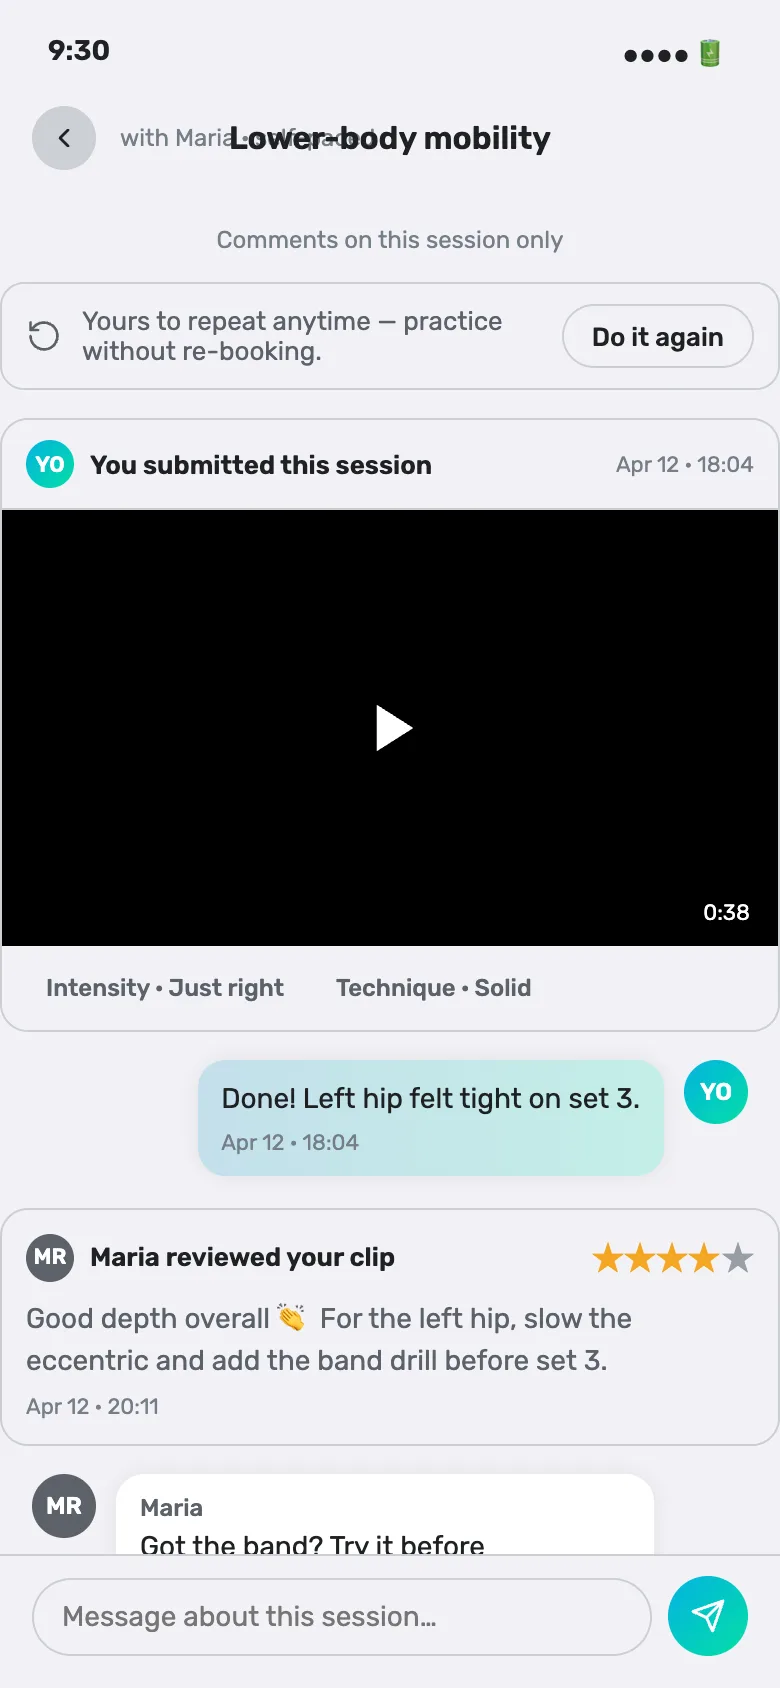
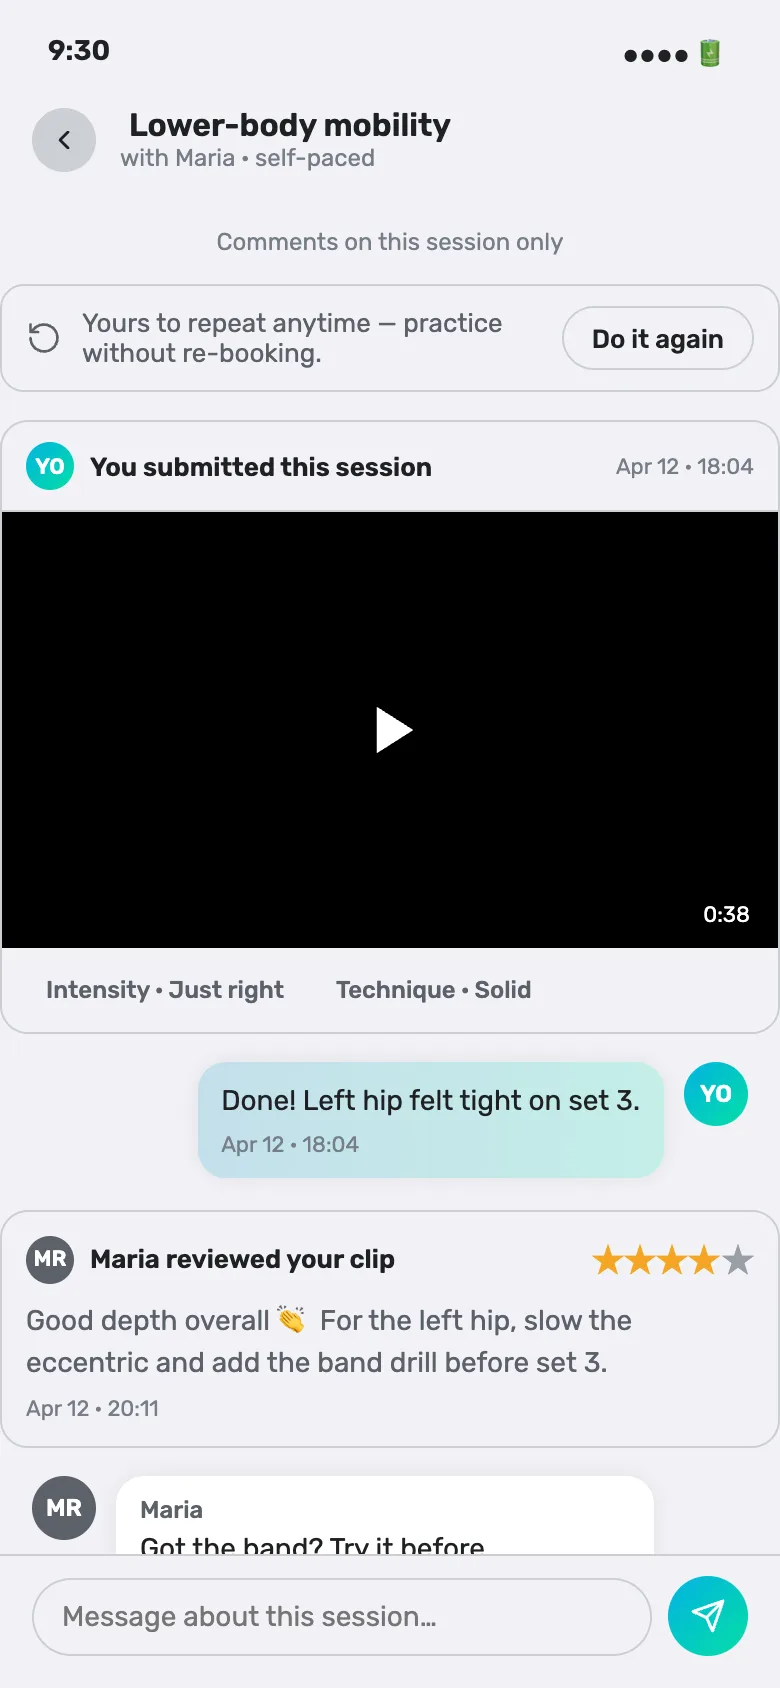
Self-paced: the thread is the assignment's home, and the module stops being an island
The template detail dropped the coach straight into the builder or the review —
action first, which is exactly what we moved away from when templates got "look
before you edit". Those rows now open the assignment's thread, and the thread
carries the action: "Needs a plan → Build it", "Needs review → Review", "With the
athlete → nothing to do". Deep-linkable as ?as=coach&st=requested#s-comments so
the walk actually works in the prototype.

That meant making one thread readable by two people. The coach sees the athlete's
name in the header and no "do it again" affordance, which is the athlete's alone.
And in "needs a plan" nothing has happened yet, so the submission, the review and
the conversation are all absent — the screen is the action row and a line saying
what is being waited on. Showing a clip and a four-star review on a session the
coach has not built yet was the kind of lie a prototype should never tell.

The island: self-paced.html had six modules linking in and not one link out —
the only file of 38 like that. It now leads back to the template, the client card
and the athlete's coach card.

Also fixed the header collision while in there: .fit-header-title is absolutely
positioned, so a second line under it lands on top of the title.

diff --git a/prototypes/flows/shared/self-paced.html b/prototypes/flows/shared/self-paced.html
@@ -202,6 +202,41 @@
   .sp-cmt-name { font-size: 12px; font-weight: 500; color: var(--fit-text-secondary); margin-bottom: 3px; }
   .sp-cmt-text { font-size: 14px; line-height: 1.45; color: var(--fit-text-primary); }
   .sp-cmt-time { font-size: 11px; color: var(--fit-text-tertiary); margin-top: 4px; }
+  /* Thread = the assignment's home. The coach lands here first and acts from
+     here, instead of being dropped straight into the builder or the review —
+     same "look before you edit" rule the training templates got. */
+  /* One thread, two readers: the coach sees the athlete's name and no practice
+     affordance; the athlete sees the first person. */
+  .sp-when-coach { display: none; }
+  #s-comments.sp-coach .sp-when-coach { display: inline; }
+  #s-comments.sp-coach .sp-when-athlete { display: none; }
+  #s-comments.sp-coach .sp-practice { display: none !important; }
+  /* "Needs a plan" means nothing has happened yet — no submission, no review,
+     no conversation. What is left is the action row and an empty thread. */
+  #s-comments.sp-requested .sp-anchor,
+  #s-comments.sp-requested .sp-cmt,
+  #s-comments.sp-requested .sp-sep { display: none !important; }
+  .sp-thread-empty { display: none; padding: 40px 24px; text-align: center; font-size: 13.5px; line-height: 1.5; color: var(--fit-text-tertiary); }
+  #s-comments.sp-requested .sp-thread-empty { display: block; }
+
+  .sp-thread-action {
+    display: none; align-items: center; gap: 12px; margin: 12px 16px 4px;
+    padding: 12px 14px; border-radius: 14px; background: var(--fit-surface-high);
+  }
+  .sp-thread-action .t { flex: 1; }
+  .sp-thread-action .t b { display: block; font-size: 14px; font-weight: 500; color: var(--fit-text-primary); }
+  .sp-thread-action .t span { font-size: 12.5px; color: var(--fit-text-tertiary); }
+  .sp-thread-action button {
+    height: 40px; padding: 0 16px; border: none; border-radius: 99px; flex-shrink: 0;
+    background: var(--fit-brand-gradient); color: #fff;
+    font-family: var(--fit-font); font-size: 14px; font-weight: 500; cursor: pointer;
+  }
+  /* one row per state; the coach role decides whether any of them shows at all */
+  #s-comments.sp-coach.sp-requested .sp-thread-action[data-st="requested"],
+  #s-comments.sp-coach.sp-submitted .sp-thread-action[data-st="submitted"],
+  #s-comments.sp-coach.sp-ready     .sp-thread-action[data-st="ready"] { display: flex; }
+  #s-comments.sp-coach .sp-cmt-bar input { }
+
   .sp-cmt-bar { display: flex; align-items: center; gap: 8px; padding: 10px 16px 16px; }
   .sp-cmt-input { flex: 1; border: 1px solid var(--fit-divider); border-radius: 99px; padding: 10px 14px; background: transparent; font-family: var(--fit-font); font-size: 14px; color: var(--fit-text-primary); outline: none; }
   .sp-cmt-send { width: 40px; height: 40px; border-radius: 50%; border: none; background: var(--fit-brand-gradient); color: #fff; cursor: pointer; flex-shrink: 0; display: flex; align-items: center; justify-content: center; }
@@ -313,11 +348,18 @@
     <button onclick="go('s-player',this)">Player</button>
     <button onclick="go('s-complete',this)">Complete + upload</button>
     <button onclick="go('s-comments',this)">Comments</button>
-    <div class="label">Video sub-flow</div>
+    <div class="label">Thread (assignment home)</div>
+  <button onclick="go('s-comments',this);spThread('coach','requested')">Coach &middot; needs a plan</button>
+  <button onclick="go('s-comments',this);spThread('coach','submitted')">Coach &middot; needs review</button>
+  <button onclick="go('s-comments',this);spThread('athlete')">Athlete view</button>
+  <div class="label">Video sub-flow</div>
     <button onclick="go('s-trim',this)">Trim clip</button>
     <button onclick="go('s-upload',this)">Uploading (Mux)</button>
     <div class="label">Other modules</div>
-    <button onclick="window.location.href='profile.html'">← shared/profile</button>
+    <button onclick="window.location.href='profile.html'">&larr; shared/profile</button>
+  <button onclick="window.location.href='../coach/sessions.html#s-detail-selfpaced'">&larr; The template</button>
+  <button onclick="window.location.href='../coach/clients.html#s-client-detail'">&larr; Client card</button>
+  <button onclick="window.location.href='../athlete/my-coaches.html#s-coach-detail'">&larr; Coach card (athlete)</button>
   </div>
   <div style="margin-top:auto;padding-top:12px;display:flex;gap:0;border-radius:8px;overflow:hidden;border:1px solid var(--fit-gray-700);flex-shrink:0;">
     <button style="flex:1;font-family:var(--fit-font);font-size:12px;font-weight:500;padding:8px 0;border:none;cursor:pointer;background:var(--fit-gray-700);color:var(--fit-white);" id="theme-dark" onclick="switchTheme('dark')">Dark</button>
@@ -1081,27 +1123,42 @@
   <div class="fit-phone-header"><div class="fit-status-bar"><span>9:30</span><span>&#9679;&#9679;&#9679;&#9679; &#128267;</span></div>
     <div class="fit-header">
       <button class="fit-header-back" aria-label="Back" onclick="go('s-list',null)"><svg viewBox="0 0 24 24" fill="none" stroke="currentColor" stroke-width="2" stroke-linecap="round" stroke-linejoin="round"><path d="M15 18l-6-6 6-6"/></svg></button>
-      <div style="flex:1;min-width:0;"><div class="fit-header-title" style="font-size:16px;overflow:hidden;text-overflow:ellipsis;white-space:nowrap;">Lower-body mobility</div><div style="font-size:12px;color:var(--fit-text-tertiary);">with Maria · self-paced</div></div>
+      <div style="flex:1;min-width:0;"><div class="fit-header-title" style="position:static;transform:none;font-size:16px;overflow:hidden;text-overflow:ellipsis;white-space:nowrap;"><span class="sp-when-athlete">Lower-body mobility</span><span class="sp-when-coach">Anna &middot; Lower-body mobility</span></div><div style="font-size:12px;color:var(--fit-text-tertiary);">with Maria · self-paced</div></div>
     </div>
   </div>
   <div class="fit-phone-content" style="padding-top:12px;">
+    <!-- Coach lands here from the template detail. What is possible depends on
+         the state, and the state is named the same way everywhere. -->
+    <div class="sp-thread-action" data-st="requested">
+      <div class="t"><b>Needs a plan</b><span>Bought 2h ago &middot; day: Thu, Apr 18</span></div>
+      <button onclick="go('s-setup',null)">Build it</button>
+    </div>
+    <div class="sp-thread-action" data-st="submitted">
+      <div class="t"><b>Needs review</b><span>Submitted 20 min ago &middot; clip attached</span></div>
+      <button onclick="go('s-review',null)">Review</button>
+    </div>
+    <div class="sp-thread-empty">Nothing here yet &mdash; Anna bought this and is waiting for the workout.<br>Anything you write lands in her thread.</div>
+    <div class="sp-thread-action" data-st="ready">
+      <div class="t"><b>With the athlete</b><span>Sent Apr 16 &middot; due Thu, Apr 18</span></div>
+    </div>
+
     <div data-st="default">
       <div style="text-align:center;font-size:12px;color:var(--fit-text-tertiary);margin-bottom:14px;">Comments on this session only</div>
       <!-- This finished session is the athlete's to repeat anytime (feedback already sent) -->
-      <div style="display:flex;align-items:center;gap:10px;padding:10px 12px;border:1px solid var(--fit-divider);border-radius:12px;margin-bottom:14px;">
+      <div class="sp-practice" style="display:flex;align-items:center;gap:10px;padding:10px 12px;border:1px solid var(--fit-divider);border-radius:12px;margin-bottom:14px;">
         <svg width="18" height="18" viewBox="0 0 24 24" fill="none" stroke="var(--fit-text-secondary)" stroke-width="1.8" stroke-linecap="round" stroke-linejoin="round" style="flex-shrink:0;"><path d="M3 12a9 9 0 109-9 9 9 0 00-6.4 2.6L3 8"/><path d="M3 3v5h5"/></svg>
         <div style="flex:1;min-width:0;font-size:13px;color:var(--fit-text-secondary);">Yours to repeat anytime — practice without re-booking.</div>
         <button onclick="spCp(true,null);go('s-welcome',null)" style="flex-shrink:0;height:32px;padding:0 14px;border:1px solid var(--fit-divider);border-radius:99px;background:transparent;color:var(--fit-text-primary);font-family:var(--fit-font);font-size:13px;font-weight:500;cursor:pointer;">Do it again</button>
       </div>
       <!-- ANCHOR: athlete submission -->
-      <div style="border:1px solid var(--fit-divider);border-radius:14px;overflow:hidden;margin-bottom:14px;background:var(--fit-card-bg);">
+      <div class="sp-anchor" style="border:1px solid var(--fit-divider);border-radius:14px;overflow:hidden;margin-bottom:14px;background:var(--fit-card-bg);">
         <div style="display:flex;align-items:center;gap:8px;padding:10px 12px;border-bottom:1px solid var(--fit-divider);"><span class="sp-cmt-av" style="width:24px;height:24px;font-size:11px;background:var(--fit-brand-gradient);">YO</span><span style="font-size:13px;font-weight:600;color:var(--fit-text-primary);">You submitted this session</span><span style="margin-left:auto;font-size:11px;color:var(--fit-text-tertiary);">Apr 12 · 18:04</span></div>
         <div style="position:relative;aspect-ratio:16/9;background:#000;display:flex;align-items:center;justify-content:center;"><svg width="40" height="40" viewBox="0 0 24 24" fill="#fff"><path d="M8 5v14l11-7z"/></svg><span style="position:absolute;right:8px;bottom:8px;background:rgba(0,0,0,.6);color:#fff;font-size:11px;padding:2px 6px;border-radius:6px;">0:38</span></div>
         <div style="display:flex;gap:6px;padding:10px 12px;flex-wrap:wrap;"><span style="font-size:12px;font-weight:500;padding:4px 10px;border-radius:99px;background:var(--fit-bg-tinted);color:var(--fit-text-secondary);">Intensity · Just right</span><span style="font-size:12px;font-weight:500;padding:4px 10px;border-radius:99px;background:var(--fit-bg-tinted);color:var(--fit-text-secondary);">Technique · Solid</span></div>
       </div>
       <div class="sp-cmt me"><span class="sp-cmt-av" style="background:var(--fit-brand-gradient);">YO</span><div class="sp-cmt-bub"><div class="sp-cmt-text">Done! Left hip felt tight on set 3.</div><div class="sp-cmt-time">Apr 12 · 18:04</div></div></div>
       <!-- ANCHOR: coach review -->
-      <div style="border:1px solid var(--fit-divider);border-radius:14px;padding:12px;margin-bottom:14px;background:var(--fit-card-bg);">
+      <div class="sp-anchor" style="border:1px solid var(--fit-divider);border-radius:14px;padding:12px;margin-bottom:14px;background:var(--fit-card-bg);">
         <div style="display:flex;align-items:center;gap:8px;margin-bottom:8px;"><span class="sp-cmt-av" style="width:24px;height:24px;font-size:11px;">MR</span><span style="font-size:13px;font-weight:600;color:var(--fit-text-primary);">Maria reviewed your clip</span><span style="margin-left:auto;display:inline-flex;gap:1px;color:#F5A623;">★★★★<span style="color:var(--fit-gray-400);">★</span></span></div>
         <div style="font-size:14px;color:var(--fit-text-secondary);line-height:1.5;">Good depth overall 👏 For the left hip, slow the eccentric and add the band drill before set 3.</div>
         <div style="font-size:11px;color:var(--fit-text-tertiary);margin-top:6px;">Apr 12 · 20:11</div>
@@ -1328,10 +1385,21 @@ function go(id, btn) {
   var ann = document.getElementById('ann-' + id); if (ann) ann.classList.add('active');
   if (window.FitUI) FitUI.initAll(document.getElementById(id));
 }
+// Thread as the assignment's home: ?as=coach&st=requested|ready|submitted
+function spThread(role, st) {
+  var el = document.getElementById('s-comments'); if (!el) return;
+  el.classList.toggle('sp-coach', role === 'coach');
+  el.classList.remove('sp-requested','sp-ready','sp-submitted');
+  if (st) el.classList.add('sp-' + st);
+  if (role === 'coach') { el.classList.remove('fit-light'); el.classList.add('fit-dark'); }
+}
+
 // Deep-link: open a specific screen when reached via #hash (e.g. coach dashboard → #s-queue)
 window.addEventListener('DOMContentLoaded', function(){
   var h = (location.hash || '').replace('#','');
   if (h && document.getElementById(h)) go(h, null);
+  var q = new URLSearchParams(location.search);
+  if (q.get('as') === 'coach') spThread('coach', q.get('st') || 'requested');
   // Coach-scoped entry: My self-paced opened from a Coach Detail carries ?c=<coach> → show filter chip
   var c = new URLSearchParams(location.search).get('c');
   if (c) { var f=document.getElementById('spl-coach-filter'), n=document.getElementById('spl-coach-name'); if(f&&n){ n.textContent=c; f.style.display='block'; } }

diff --git a/prototypes/board/board-data.js b/prototypes/board/board-data.js
@@ -1648,7 +1648,7 @@ window.FIT_BOARD = {
       "screens": [
         {
           "id": "s-overview",
-          "hash": "172a00861668",
+          "hash": "b976c6660dfc",
           "title": "Overview",
           "inApp": "Self-paced — flow",
           "status": "canon",
@@ -1667,7 +1667,7 @@ window.FIT_BOARD = {
         },
         {
           "id": "s-queue",
-          "hash": "a672f55c4d55",
+          "hash": "6c786946ca2a",
           "title": "Requests + review",
           "inApp": "Self-paced",
           "status": "canon",
@@ -1700,7 +1700,7 @@ window.FIT_BOARD = {
         },
         {
           "id": "s-inbox",
-          "hash": "1b41184b1f31",
+          "hash": "ce7109add27e",
           "title": "↳ in unified Inbox",
           "inApp": "Inbox",
           "status": "canon",
@@ -1720,7 +1720,7 @@ window.FIT_BOARD = {
         },
         {
           "id": "s-setup",
-          "hash": "4b98d8cb1f41",
+          "hash": "81e722086511",
           "title": "Setup builder",
           "inApp": "Set up for Anna",
           "status": "canon",
@@ -1741,17 +1741,12 @@ window.FIT_BOARD = {
               "file": "flows/coach/clients.html",
               "label": "Coach Clients",
               "id": "s-client-detail"
-            },
-            {
-              "file": "flows/coach/sessions.html",
-              "label": "Training templates",
-              "id": "s-detail-selfpaced"
             }
           ]
         },
         {
           "id": "s-step",
-          "hash": "960fb04e1f67",
+          "hash": "f5c2155ec5d0",
           "title": "Step editor",
           "inApp": "Edit step",
           "status": "canon",
@@ -1771,7 +1766,7 @@ window.FIT_BOARD = {
         },
         {
           "id": "s-review",
-          "hash": "e8a55dbec0c8",
+          "hash": "4ac54c878528",
           "title": "Review submission",
           "inApp": "Review · Julia",
           "status": "canon",
@@ -1792,17 +1787,12 @@ window.FIT_BOARD = {
               "file": "flows/coach/clients.html",
               "label": "Coach Clients",
               "id": "s-client-selfpaced"
-            },
-            {
-              "file": "flows/coach/sessions.html",
-              "label": "Training templates",
-              "id": "s-detail-selfpaced"
             }
           ]
         },
         {
           "id": "s-history",
-          "hash": "0c4905da8153",
+          "hash": "2c865676d04c",
           "title": "Client history",
           "inApp": "Julia · self-paced",
           "status": "canon",
@@ -1828,7 +1818,7 @@ window.FIT_BOARD = {
         },
         {
           "id": "s-library",
-          "hash": "e17d634f52bb",
+          "hash": "ddc572ac60c7",
           "title": "Coach library",
           "inApp": "Video library",
           "status": "canon",
@@ -1848,7 +1838,7 @@ window.FIT_BOARD = {
         },
         {
           "id": "s-book",
-          "hash": "e67291de7504",
+          "hash": "bc1a8f1acac3",
           "title": "Book offering",
           "inApp": "Book training",
           "status": "canon",
@@ -1868,7 +1858,7 @@ window.FIT_BOARD = {
         },
         {
           "id": "s-list",
-          "hash": "216cdd92d262",
+          "hash": "6ec6b27e5ef4",
           "title": "My self-paced",
           "inApp": "Self-paced training",
           "status": "canon",
@@ -1899,7 +1889,7 @@ window.FIT_BOARD = {
         },
         {
           "id": "s-welcome",
-          "hash": "685455384caf",
+          "hash": "860707c69398",
           "title": "Welcome / intro",
           "inApp": "",
           "status": "canon",
@@ -1925,7 +1915,7 @@ window.FIT_BOARD = {
         },
         {
           "id": "s-player",
-          "hash": "79d34fad1e84",
+          "hash": "fe7cdcc27bfb",
           "title": "Player",
           "inApp": "",
           "status": "canon",
@@ -1945,7 +1935,7 @@ window.FIT_BOARD = {
         },
         {
           "id": "s-complete",
-          "hash": "8f839c6eda38",
+          "hash": "87407a4afafc",
           "title": "Complete + upload",
           "inApp": "Nice work 🎉",
           "status": "canon",
@@ -1965,8 +1955,8 @@ window.FIT_BOARD = {
         },
         {
           "id": "s-comments",
-          "hash": "0ef50bd0dbe9",
-          "title": "Comments",
+          "hash": "7f7a137b9119",
+          "title": "Athlete view",
           "inApp": "Lower-body mobility",
           "status": "canon",
           "theme": "light",
@@ -1986,12 +1976,17 @@ window.FIT_BOARD = {
               "file": "flows/coach/clients.html",
               "label": "Coach Clients",
               "id": "s-client-selfpaced"
+            },
+            {
+              "file": "flows/coach/sessions.html",
+              "label": "Training templates",
+              "id": "s-detail-selfpaced"
             }
           ]
         },
         {
           "id": "s-trim",
-          "hash": "ea29fa8c4896",
+          "hash": "f83ced993166",
           "title": "Trim clip",
           "inApp": "Trim clip",
           "status": "canon",
@@ -2011,7 +2006,7 @@ window.FIT_BOARD = {
         },
         {
           "id": "s-upload",
-          "hash": "31c41831a16f",
+          "hash": "ac014751a553",
           "title": "Uploading (Mux)",
           "inApp": "Uploading",
           "status": "canon",
@@ -2169,6 +2164,16 @@ window.FIT_BOARD = {
         {
           "from": "s-comments",
           "to": "s-list",
+          "back": true
+        },
+        {
+          "from": "s-comments",
+          "to": "s-setup",
+          "back": true
+        },
+        {
+          "from": "s-comments",
+          "to": "s-review",
           "back": true
         },
         {
@@ -3427,7 +3432,7 @@ window.FIT_BOARD = {
         },
         {
           "id": "s-detail-selfpaced",
-          "hash": "779ffe44867c",
+          "hash": "3d53596f6df9",
           "title": "Detail — Self-paced",
           "inApp": "Tennis self-paced",
           "status": "canon",
@@ -3437,8 +3442,8 @@ window.FIT_BOARD = {
           "external": [
             "./sessions.html#s-list",
             "../shared/self-paced.html#s-queue",
-            "../shared/self-paced.html#s-setup",
-            "../shared/self-paced.html#s-review",
+            "../shared/self-paced.html?as=coach&st=requested#s-comments",
+            "../shared/self-paced.html?as=coach&st=submitted#s-comments",
             "../shared/self-paced.html#s-history",
             "./clients.html"
           ],

diff --git a/prototypes/flows/coach/sessions.html b/prototypes/flows/coach/sessions.html
@@ -1608,7 +1608,7 @@
 
     <!-- Actionable first: what the coach owes -->
     <div class="td-sec"><span class="td-sec-title">Needs your plan</span><span class="td-sec-action" onclick="window.location.href='../shared/self-paced.html#s-queue'">Open queue</span></div>
-    <div class="td-person td-person--attn" onclick="window.location.href='../shared/self-paced.html#s-setup'">
+    <div class="td-person td-person--attn" onclick="window.location.href='../shared/self-paced.html?as=coach&amp;st=requested#s-comments'">
       <div class="fit-avatar fit-avatar-sm">AK</div>
       <div class="td-person-body">
         <div class="td-person-name">Anna Kovalenko</div>
@@ -1616,7 +1616,7 @@
       </div>
       <svg class="td-ev-chev" viewBox="0 0 24 24" fill="none" stroke="currentColor" stroke-width="2" stroke-linecap="round" stroke-linejoin="round"><path d="M9 18l6-6-6-6"/></svg>
     </div>
-    <div class="td-person td-person--attn" onclick="window.location.href='../shared/self-paced.html#s-setup'">
+    <div class="td-person td-person--attn" onclick="window.location.href='../shared/self-paced.html?as=coach&amp;st=requested#s-comments'">
       <div class="fit-avatar fit-avatar-sm">IP</div>
       <div class="td-person-body">
         <div class="td-person-name">Ivan Petrov</div>
@@ -1628,7 +1628,7 @@
     <div style="height:12px;"></div>
 
     <div class="td-sec"><span class="td-sec-title">In progress</span><span style="font-size:13px;color:var(--fit-text-tertiary);">5</span></div>
-    <div class="td-person" onclick="window.location.href='../shared/self-paced.html#s-review'">
+    <div class="td-person" onclick="window.location.href='../shared/self-paced.html?as=coach&amp;st=submitted#s-comments'">
       <div class="fit-avatar fit-avatar-sm">MR</div>
       <div class="td-person-body">
         <div class="td-person-name">Mike Reznik</div>
@@ -1637,7 +1637,7 @@
       </div>
       <svg class="td-ev-chev" viewBox="0 0 24 24" fill="none" stroke="currentColor" stroke-width="2" stroke-linecap="round" stroke-linejoin="round"><path d="M9 18l6-6-6-6"/></svg>
     </div>
-    <div class="td-person" onclick="window.location.href='../shared/self-paced.html#s-review'">
+    <div class="td-person" onclick="window.location.href='../shared/self-paced.html?as=coach&amp;st=submitted#s-comments'">
       <div class="fit-avatar fit-avatar-sm">JD</div>
       <div class="td-person-body">
         <div class="td-person-name">Jonas Dapkus</div>
